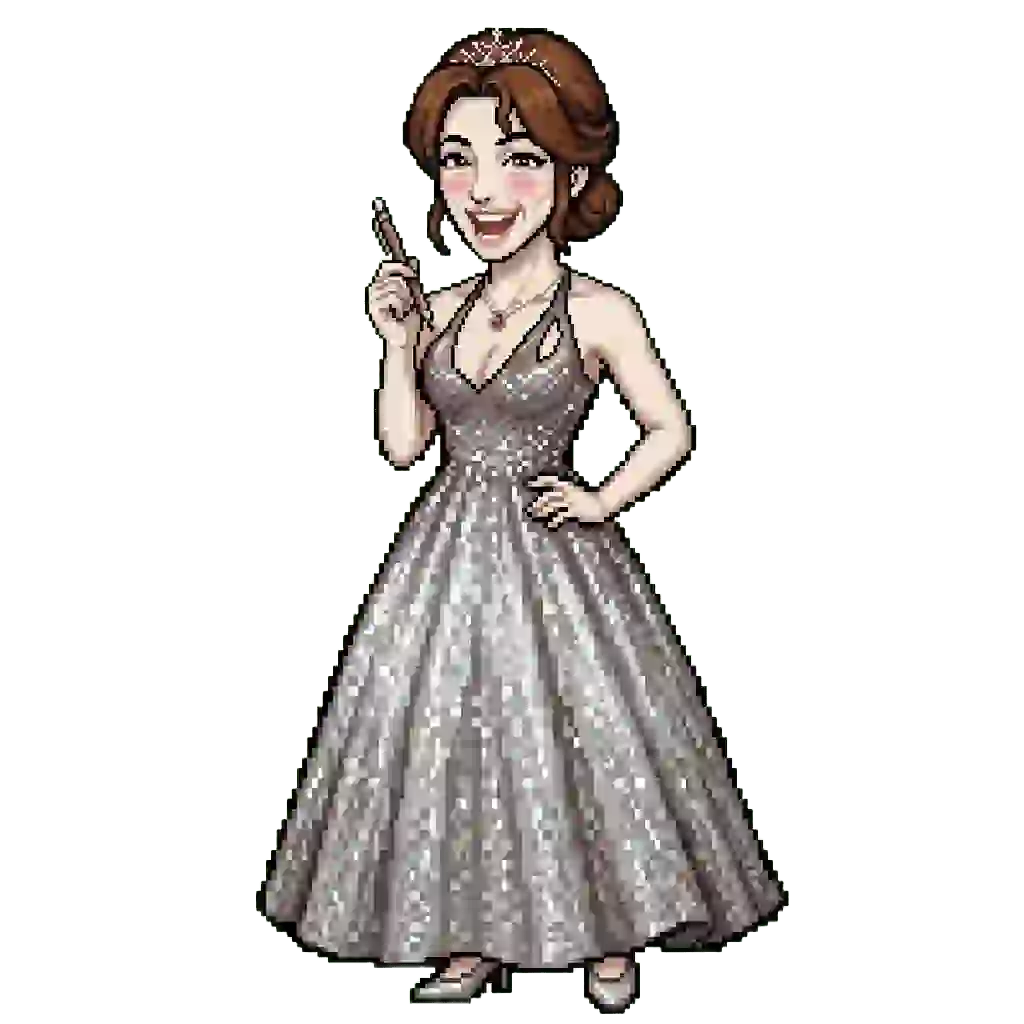
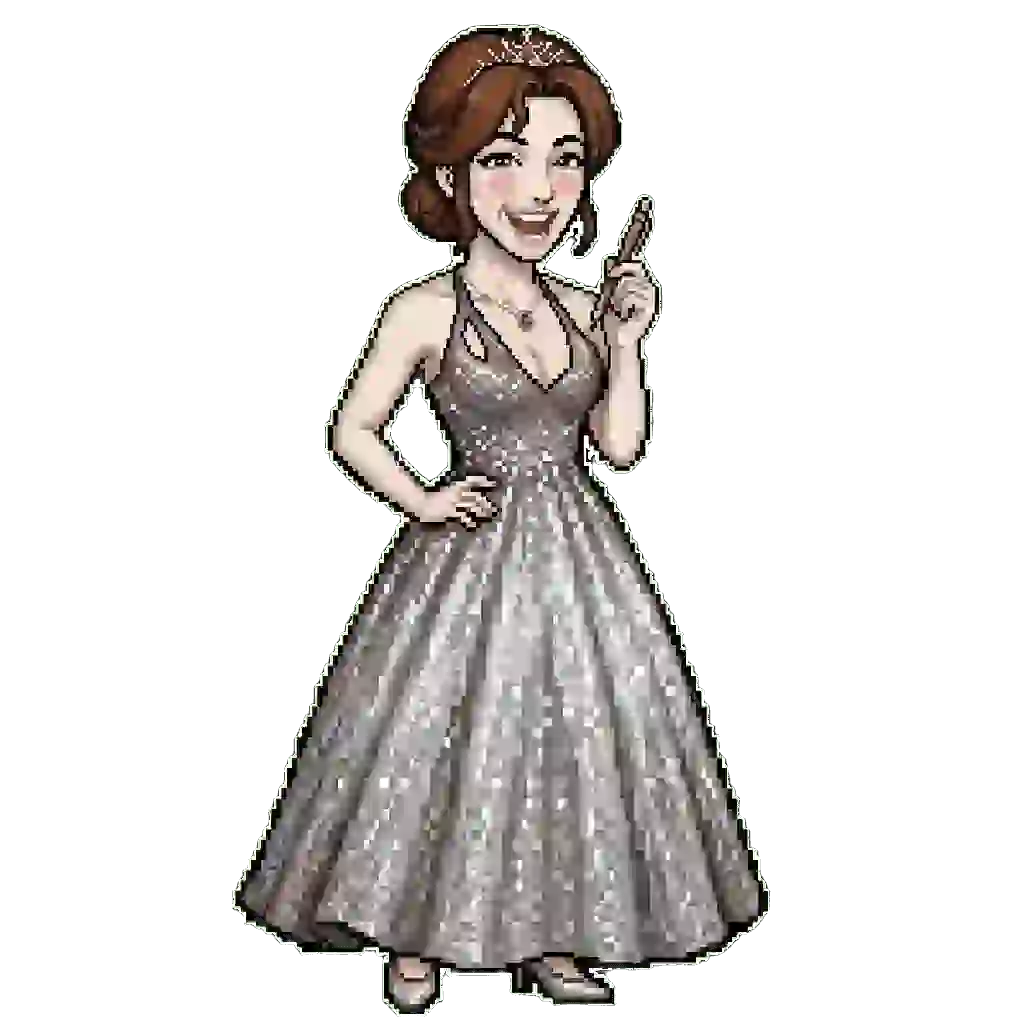
変更

Changed region(s): [[0.2188, 0.0, 0.7812, 1.0]]

diff --git a/game.js b/game.js
@@ -1606,6 +1606,11 @@ static drawDopagaking(p, isCharged) {
                 const sortDir = arg3 || 'desc';
                 const onlyOwned = !!arg4;
                 backAction = `renderCharacterSelectScreen(${isOnline}, '${sortOrder}', '${sortDir}', ${onlyOwned})`;
+            } else if (returnSource === 'new_select') {
+                const sortOrder = arg1 || 'default';
+                const sortDir = arg2 || 'desc';
+                const onlyOwned = !!arg3;
+                backAction = `renderNewBattleCharSelectScreen('${sortOrder}', '${sortDir}', ${onlyOwned})`;
             } else {
                 const sortOrder = arg1 || 'default';
                 const sortDir = arg2 || 'desc';
@@ -1645,6 +1650,24 @@ static drawDopagaking(p, isCharged) {
                     const isSelected = playerState.selectedPlayerChar === c.id;
                     html += `
                         <button onclick="playerState.selectedPlayerChar = '${c.id}'; savePlayerState(); renderCharacterSelectScreen(${isOnline}, '${sortOrder}', '${sortDir}', ${onlyOwned});" class="pixel-btn ${isSelected ? 'pixel-btn-success' : 'pixel-btn-primary'} w-full py-2.5 font-bold text-xs sm:text-sm shadow-lg mt-auto">
+                            ${isSelected ? '✨ 選択中 (戻る)' : '⚔ このキャラで出陣'}
+                        </button>
+                    `;
+                } else {
+                    html += `
+                        <div class="w-full text-center py-2 text-xs text-red-400 font-bold bg-slate-950 rounded border border-red-900 mt-auto">
+                            🔒 未所持 (ガチャで入手)
+                        </div>
+                    `;
+                }
+            } else if (returnSource === 'new_select' && !isExtra) {
+                const sortOrder = arg1 || 'default';
+                const sortDir = arg2 || 'desc';
+                const onlyOwned = !!arg3;
+                if (isUnlocked) {
+                    const isSelected = window.selectedNewBattleChar === c.id;
+                    html += `
+                        <button onclick="window.selectedNewBattleChar = '${c.id}'; renderNewBattleCharSelectScreen('${sortOrder}', '${sortDir}', ${onlyOwned});" class="pixel-btn ${isSelected ? 'pixel-btn-success' : 'pixel-btn-primary'} w-full py-2.5 font-bold text-xs sm:text-sm shadow-lg mt-auto">
                             ${isSelected ? '✨ 選択中 (戻る)' : '⚔ このキャラで出陣'}
                         </button>
                     `;
@@ -3339,13 +3362,17 @@ case 'dopa_juggler_skill':
         let isNewBattleSkillModalOpen = false;
         let newBattleViewMode = 'main';
 
-        function renderNewBattleCharSelectScreen(sortOrder = 'default', sortDir = 'desc') {
+        function renderNewBattleCharSelectScreen(sortOrder = 'default', sortDir = 'desc', onlyOwned = false) {
             audioSystem.playSelect();
             const container = document.getElementById('screen-container');
             if (container) container.scrollTop = 0;
 
             const selected = window.selectedNewBattleChar || 'asaiomizu';
             let chars = Object.values(CHARACTER_DATA);
+
+            if (onlyOwned) {
+                chars = chars.filter(c => playerState.unlockedChars.includes(c.id));
+            }
 
             chars.sort((a, b) => {
                 let valA = 0;
@@ -3377,27 +3404,28 @@ case 'dopa_juggler_skill':
                 }
             });
 
+            const unlockedCount = playerState.unlockedChars.length;
             const totalCount = Object.keys(CHARACTER_DATA).length;
 
             let html = `
-                <div class="w-full h-full flex flex-col items-center justify-between max-w-4xl mx-auto py-2 px-2 overflow-hidden select-none bg-slate-950 text-white">
-                    <div class="pixel-box-gold p-2 sm:p-3 bg-amber-950/90 w-full text-center space-y-0.5 sm:space-y-1 border-amber-400 mb-2 flex-shrink-0">
-                        <div class="flex items-center justify-between mb-1">
-                            <button onclick="renderBotModesScreen()" class="pixel-btn pixel-btn-danger px-3 py-1 text-xs font-bold">
-                                ◀ モード選択に戻る
+                <div class="w-full h-full flex flex-col items-center justify-between max-w-4xl mx-auto py-1 px-2 overflow-hidden select-none bg-slate-950 text-white">
+                    <div class="pixel-box-gold p-1.5 sm:p-2 bg-amber-950/90 w-full text-center space-y-0.5 border-amber-400 mb-1.5 flex-shrink-0">
+                        <div class="flex items-center justify-between">
+                            <button onclick="renderBotModesScreen()" class="pixel-btn pixel-btn-danger px-2.5 py-0.5 text-xs font-bold">
+                                ◀ モード選択
                             </button>
-                            <h2 class="text-sm sm:text-lg font-bold text-amber-300 font-pixel">
-                                ✨ 新規バトルモード - キャラクター選択
+                            <h2 class="text-xs sm:text-base font-bold text-amber-300 font-pixel">
+                                ✨ 新規バトルモード - キャラ選択
                             </h2>
-                            <div class="w-20"></div>
+                            <div class="w-16"></div>
                         </div>
-                        <p class="text-[9px] sm:text-xs text-amber-200 font-mono">アイコンをタップして出陣ファイターを選択せよ！</p>
+                        <p class="text-[9px] sm:text-[11px] text-amber-200 font-mono">アイコンをタップして詳細確認・出陣ファイターを選択せよ！</p>
                     </div>
 
-                    <div class="flex items-center justify-between w-full mb-2 px-1 gap-2 flex-wrap flex-shrink-0">
+                    <div class="flex items-center justify-between w-full mb-1.5 px-1 gap-2 flex-wrap flex-shrink-0">
                         <div class="flex items-center gap-1.5 text-xs">
                             <span class="text-slate-400 font-bold">並び替え:</span>
-                            <select id="new-char-select-sort-order" onchange="onNewCharSelectSortChange('${sortDir}')" class="pixel-box bg-slate-900 text-amber-300 px-2 py-1 text-xs outline-none border-amber-600">
+                            <select id="new-char-select-sort-order" onchange="onNewCharSelectSortChange('${sortDir}', ${onlyOwned})" class="pixel-box bg-slate-900 text-amber-300 px-2 py-1 text-xs outline-none border-amber-600">
                                 <option value="default" ${sortOrder === 'default' ? 'selected' : ''}>登録順</option>
                                 <option value="hp" ${sortOrder === 'hp' ? 'selected' : ''}>HPが高い順</option>
                                 <option value="atk" ${sortOrder === 'atk' ? 'selected' : ''}>攻撃力が高い順</option>
@@ -3405,19 +3433,23 @@ case 'dopa_juggler_skill':
                                 <option value="critRate" ${sortOrder === 'critRate' ? 'selected' : ''}>クリティカル率が高い順</option>
                                 <option value="eva" ${sortOrder === 'eva' ? 'selected' : ''}>回避率が高い順</option>
                             </select>
-                            <button onclick="toggleNewCharSelectSortDir('${sortOrder}', '${sortDir}')" class="pixel-btn px-2 py-1 text-xs font-bold bg-slate-800 border-slate-600">
+                            <button onclick="toggleNewCharSelectSortDir('${sortOrder}', '${sortDir}', ${onlyOwned})" class="pixel-btn px-2 py-1 text-xs font-bold bg-slate-800 border-slate-600">
                                 ${sortDir === 'desc' ? '🔽 降順(高)' : '🔼 昇順(低)'}
+                            </button>
+                            <button onclick="toggleNewCharSelectOwnedFilter('${sortOrder}', '${sortDir}', ${onlyOwned})" class="pixel-btn px-2 py-1 text-xs font-bold ${onlyOwned ? 'pixel-btn-success border-emerald-400 text-emerald-200' : 'bg-slate-800 border-slate-600 text-slate-300'}">
+                                ${onlyOwned ? '✨ 入手済みのみ: ON' : '📦 入手済みのみ: OFF'}
                             </button>
                         </div>
                         <div class="text-[10px] sm:text-xs font-mono text-amber-200 bg-slate-900 px-2.5 py-1 rounded border border-amber-600/50">
-                            全キャラクター: <b class="text-emerald-400">${totalCount}</b> 体
+                            所持: <b class="text-emerald-400">${unlockedCount}</b> / ${totalCount} 体
                         </div>
                     </div>
 
-                    <div class="grid grid-cols-3 sm:grid-cols-4 md:grid-cols-5 gap-2 sm:gap-3 w-full mb-2 px-1 overflow-y-auto flex-1 min-h-0">
+                    <div class="grid grid-cols-3 sm:grid-cols-4 md:grid-cols-5 gap-2 sm:gap-3 w-full mb-1.5 px-1 overflow-y-auto flex-1 min-h-0">
             `;
 
             chars.forEach(c => {
+                const isUnlocked = playerState.unlockedChars.includes(c.id);
                 const isSelected = selected === c.id;
 
                 let statDisplay = '';
@@ -3428,20 +3460,20 @@ case 'dopa_juggler_skill':
                 else if (sortOrder === 'eva') statDisplay = `<span class="text-[9px] sm:text-[10px] text-blue-400 font-bold">避: ${c.eva}%</span>`;
 
                 html += `
-                    <div onclick="window.selectedNewBattleChar = '${c.id}'; renderNewBattleCharSelectScreen('${sortOrder}', '${sortDir}');" 
-                         class="pixel-box p-2 sm:p-3 bg-slate-900 cursor-pointer flex flex-col items-center justify-between border-2 transition-all ${isSelected ? 'border-amber-400 bg-amber-950/40 scale-105 shadow-lg' : 'border-slate-700 hover:border-slate-400'}">
+                    <div onclick="openCharDetail('${c.id}', 'new_select', '${sortOrder}', '${sortDir}', ${onlyOwned})" 
+                         class="pixel-box p-2 sm:p-3 bg-slate-900 cursor-pointer flex flex-col items-center justify-between border-2 transition-all ${isSelected ? 'border-amber-400 bg-amber-950/40 scale-105 shadow-lg' : 'border-slate-700 hover:border-slate-400'} ${!isUnlocked ? 'opacity-60 grayscale' : ''}">
                         <canvas id="new-select-cvs-${c.id}" width="95" height="95" class="pixel-box bg-slate-950 mb-1 w-16 h-16 sm:w-24 sm:h-24"></canvas>
                         <span class="text-[11px] sm:text-xs font-bold ${isSelected ? 'text-amber-300 font-pixel' : 'text-slate-200'} truncate max-w-full">${c.name}</span>
                         <span class="text-[9px] text-slate-400 truncate max-w-full">${c.title}</span>
                         ${statDisplay}
-                        ${isSelected ? '<span class="text-[9px] text-amber-400 font-pixel font-bold mt-0.5">✨ 選択中</span>' : '<span class="text-[9px] text-slate-400 font-bold mt-0.5">選択する</span>'}
+                        ${!isUnlocked ? '<span class="text-[9px] text-red-400 font-bold mt-0.5">🔒 未解放</span>' : (isSelected ? '<span class="text-[9px] text-amber-400 font-pixel font-bold mt-0.5">✨ 選択中</span>' : '<span class="text-[9px] text-slate-400 font-bold mt-0.5">タップで詳細</span>')}
                     </div>
                 `;
             });
 
             html += `
                     </div>
-                    <div class="flex gap-3 w-full justify-center pb-2 flex-shrink-0">
+                    <div class="flex gap-3 w-full justify-center pb-1 flex-shrink-0">
                         <button onclick="
                             const pChar = window.selectedNewBattleChar || 'asaiomizu';
                             const otherIds = Object.keys(CHARACTER_DATA).filter(id => id !== pChar);
@@ -3457,28 +3489,33 @@ case 'dopa_juggler_skill':
             container.innerHTML = html;
 
             setTimeout(() => {
-                Object.keys(CHARACTER_DATA).forEach(id => {
-                    const cvs = document.getElementById(`new-select-cvs-${id}`);
-                    if (cvs) CharacterRenderer.drawCharacter(cvs, id);
+                chars.forEach(c => {
+                    const cvs = document.getElementById(`new-select-cvs-${c.id}`);
+                    if (cvs) CharacterRenderer.drawCharacter(cvs, c.id);
                 });
             }, 50);
         }
 
-        function onNewCharSelectSortChange(currentDir) {
+        function onNewCharSelectSortChange(currentDir, onlyOwned) {
             const select = document.getElementById('new-char-select-sort-order');
             if (select) {
-                renderNewBattleCharSelectScreen(select.value, currentDir);
+                renderNewBattleCharSelectScreen(select.value, currentDir, onlyOwned);
             }
         }
 
-        function toggleNewCharSelectSortDir(currentOrder, currentDir) {
+        function toggleNewCharSelectSortDir(currentOrder, currentDir, onlyOwned) {
             const newDir = currentDir === 'desc' ? 'asc' : 'desc';
-            renderNewBattleCharSelectScreen(currentOrder, newDir);
+            renderNewBattleCharSelectScreen(currentOrder, newDir, onlyOwned);
         }
 
-        window.renderNewBattleCharSelectScreen = renderNewBattleCharSelectScreen;
+        function toggleNewCharSelectOwnedFilter(currentOrder, currentDir, onlyOwned) {
+            renderNewBattleCharSelectScreen(currentOrder, currentDir, !onlyOwned);
+        }
+
+        window.renderNewCharSelectScreen = renderNewBattleCharSelectScreen;
         window.onNewCharSelectSortChange = onNewCharSelectSortChange;
         window.toggleNewCharSelectSortDir = toggleNewCharSelectSortDir;
+        window.toggleNewCharSelectOwnedFilter = toggleNewCharSelectOwnedFilter;
 
         function executeNewBattleCourtneyCharge() {
             if (!activeNewBattle || activeNewBattle.battleEnded || activeNewBattle.waitingForOpponent || activeNewBattle.p1.isResting) return;
